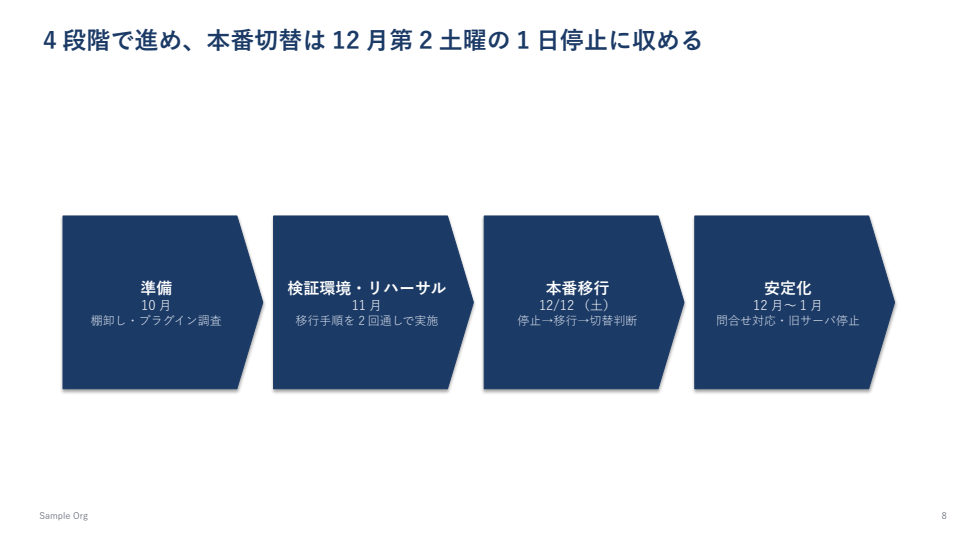
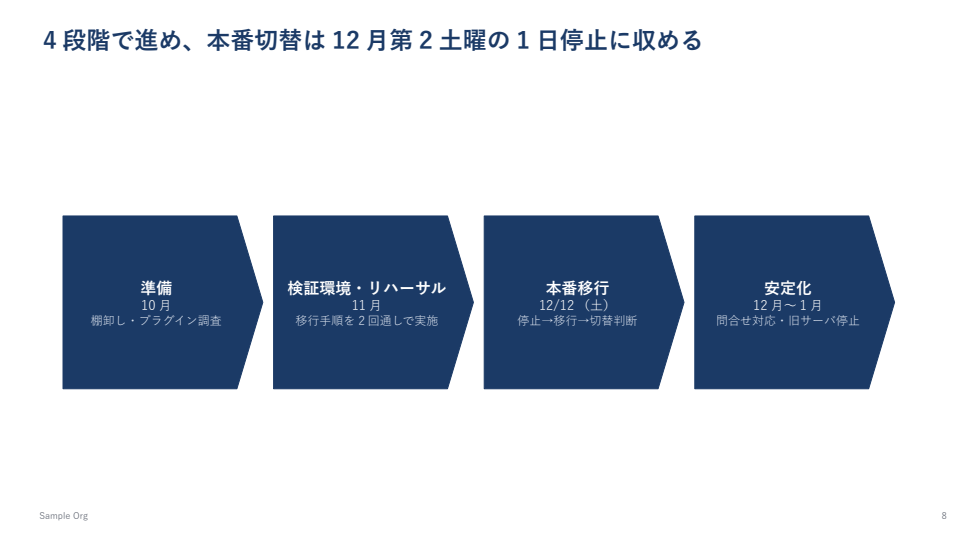
fix(pptx-deck): テンプレ由来の図形効果と角丸を修正

diff --git a/skills/pptx-deck/tests/test_pptx_deck.py b/skills/pptx-deck/tests/test_pptx_deck.py
@@ -27,6 +27,7 @@ DECK = ROOT / "examples" / "redmine-migration" / "deck.json"
 
 sys.path.insert(0, str(SCRIPTS))
 from build import absolute_bbox  # noqa: E402
+from common import GENERATED_MARK  # noqa: E402
 
 PY = sys.executable
 
@@ -937,6 +938,40 @@ class TestGroupsLayoutCharts(unittest.TestCase):
                 "-o", str(out))
         self.assertEqual(r.returncode, 0, r.stderr)
         self.assertIn("fallbacks: 0", r.stdout)
+        prs = Presentation(str(out))
+        generated = []
+        connectors = []
+        for slide in prs.slides:
+            for element in slide._element.xpath(".//p:sp | .//p:cxnSp"):
+                props = element.xpath(
+                    "./p:nvSpPr/p:cNvPr | ./p:nvCxnSpPr/p:cNvPr")
+                if not props:
+                    continue
+                c_nvpr = props[0]
+                if c_nvpr.get("descr") == GENERATED_MARK:
+                    generated.append(c_nvpr.get("name"))
+                    self.assertIsNone(element.find(qn("p:style")))
+                    if c_nvpr.get("name") == "OrgNode":
+                        geometry = element.find(
+                            f"{qn('p:spPr')}/{qn('a:prstGeom')}")
+                        ext = element.find(
+                            f"{qn('p:spPr')}/{qn('a:xfrm')}/"
+                            f"{qn('a:ext')}")
+                        expected = round(
+                            0.06 * int(Inches(1))
+                            / min(int(ext.get("cx")), int(ext.get("cy")))
+                            * 100000)
+                        guide = geometry.find(
+                            f"{qn('a:avLst')}/{qn('a:gd')}[@name='adj']")
+                        self.assertEqual(guide.get("fmla"),
+                                         f"val {expected}")
+                if c_nvpr.get("name") == "OrgConnector":
+                    connectors.append(element)
+        self.assertIn("TimelineStep", generated)
+        self.assertIn("OrgNode", generated)
+        self.assertTrue(connectors)
+        for connector in connectors:
+            self.assertIsNone(connector.find(qn("p:style")))
         rep = self._report(out)
         self.assertEqual(rep["fallbacks"], [])
         self.assertGreater(rep["native"], 0)

diff --git a/skills/pptx-deck/scripts/build.py b/skills/pptx-deck/scripts/build.py
@@ -725,9 +725,15 @@ def _prototype_element(ctx, slide, slot_def, where, kind,
             remove_shape_el(el)
         return synth_node_proto(kind)
     proto = copy.deepcopy(el)
+    _remove_shape_styles(proto)
     if remove:
         remove_shape_el(el)
     return proto
+
+
+def _remove_shape_styles(element):
+    for style in list(element.iter(qn("p:style"))):
+        style.getparent().remove(style)
 
 
 def synth_node_proto(kind):
@@ -1162,6 +1168,26 @@ def _set_xfrm(sp_el, x, y, w, h):
     xfrm.find(qn("a:ext")).set("cy", str(int(h)))
 
 
+def _set_round_rect_radius(sp_el):
+    geometry = sp_el.find(f"{qn('p:spPr')}/{qn('a:prstGeom')}")
+    if geometry is None or geometry.get("prst") != "roundRect":
+        return
+    ext = sp_el.find(
+        f"{qn('p:spPr')}/{qn('a:xfrm')}/{qn('a:ext')}")
+    width, height = int(ext.get("cx")), int(ext.get("cy"))
+    adjustment = max(
+        1, min(100000, round(0.06 * int(Inches(1))
+                             / min(width, height) * 100000)))
+    av_list = geometry.find(qn("a:avLst"))
+    if av_list is None:
+        av_list = etree.SubElement(geometry, qn("a:avLst"))
+    guide = av_list.find(f"{qn('a:gd')}[@name='adj']")
+    if guide is None:
+        guide = etree.SubElement(av_list, qn("a:gd"))
+        guide.set("name", "adj")
+    guide.set("fmla", f"val {adjustment}")
+
+
 def _proto_size(proto_el):
     bbox = _raw_bbox(proto_el)
     if bbox is None:
@@ -1177,6 +1203,7 @@ def _node_text(node):
 
 
 def _style_connector(conn, scheme_color):
+    _remove_shape_styles(conn._element)
     ln = conn.line._get_or_add_ln()
     ln.set("w", "19050")
     for child in list(ln):
@@ -1223,6 +1250,7 @@ def draw_orgchart(slide, tree, bbox, proto_el, connector_color, where):
         cx, y = pos[id(node)]
         el = copy.deepcopy(proto_el)
         _set_xfrm(el, cx - node_w / 2, y, node_w, ph)
+        _set_round_rect_radius(el)
         _mark_el(el, GENERATED_MARK)
         fill_node_text(el, _node_text(node))
         slide.shapes._spTree.append(el)
